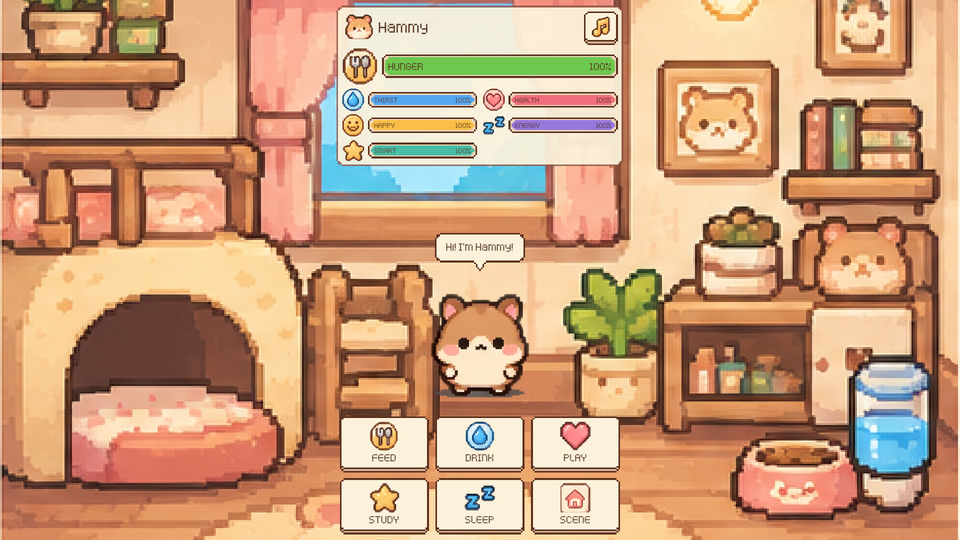
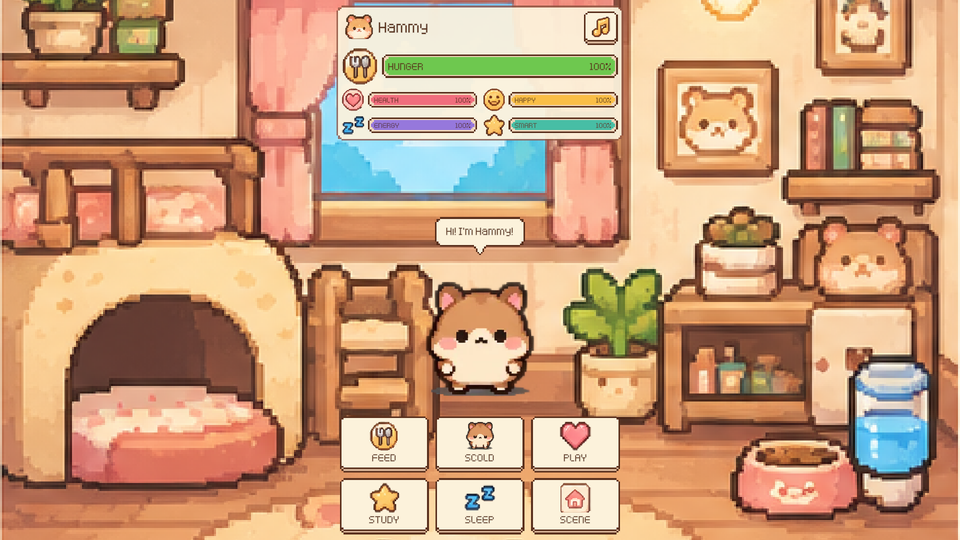
Update README and screenshots for Scold button

Changed region(s): [[0.3438, 0.1481, 0.6562, 0.3259], [0.4375, 0.3852, 0.5625, 0.7407], [0.4688, 0.7704, 0.5312, 0.8593]]

diff --git a/README.md b/README.md
@@ -22,7 +22,7 @@ and it gets **sick**.
 | 1 | Project setup (portrait, Canvas Scaler, safe area, art import) | ✅ Done |
 | 2 | UI layout (stat bars, pet area, action buttons, Scene button, mute) | ✅ Done |
 | 3 | Stats, hunger bar, hangry state, sick / game over + Restart | ✅ Done |
-| 4 | Pet state machine and emotes (idle, eating, drinking, studying, sleeping, playing, happy, sad, crying, hangry, sick) | ✅ Done |
+| 4 | Pet state machine and emotes (idle, eating, studying, sleeping, playing, happy, sad, crying, hangry, sick) | ✅ Done |
 | 5 | Audio (AudioManager, CC0 sounds, mute) | ⏳ Planned |
 | 6 | Save/load with offline decay | ⏳ Planned |
 | 7 | Polish | ⏳ Planned |
@@ -30,11 +30,11 @@ and it gets **sick**.
 
 ## Features
 
-- **Six stats (0–100):** Hunger, Thirst, Happiness, Energy, Intelligence and Health. They decay every
+- **Five stats (0–100):** Hunger, Happiness, Energy, Intelligence and Health. They decay every
   second. All numbers are in `Assets/Data/PetStatsConfig.asset` (see *Tuning the stats*).
 - **Hunger bar** at the top that goes green → yellow → red. **Below 25%** the pet is **hangry**: the bar
   flashes red and pulses, and the mood line says so. *(The angry emote and hangry sound come in steps 4–5.)*
-- **Health** drops while Hunger or Thirst is at 0, and slowly recovers while both are above 50%.
+- **Health** drops while Hunger is at 0, and slowly recovers while Hunger is above 50%.
 - **Sick / game over:** if Health reaches 0, **or Hunger stays at 0 for 30 seconds**, the pet gets
   sick. A game-over card with the crying hamster and a **Restart** button appears.
 - **Sleep** restores Energy over time (4 per second) and slows the other stats. The pet wakes up by
@@ -50,10 +50,9 @@ and it gets **sick**.
   |-------|------|-------------|
   | Idle | Nothing special going on | `idle` frames, slow loop |
   | Eating | FEED (2 s) | `eating` frames + little hops |
-  | Drinking | DRINK (2 s) | `eating` frames (the pack has no drinking frames) + little hops |
   | Studying | STUDY (2 s) | `studying` frames |
   | Playing → Happy | PLAY (2 s, then 1.2 s happy) | `playing` then `happy` frames + bouncing |
-  | Sad | Happiness below 25%, or the pet refuses (too tired) | `sad` frames |
+  | Sad | SCOLD (2 s), Happiness below 25%, or the pet refuses (too tired) | `sad` frames |
   | Crying | Health below 25% | `crying` frames |
   | Hangry | Hunger below 25% | `sad` frames + red pulse + angry shake |
   | Sleeping | SLEEP | `sleeping` frames; the screen dims and switches to the moonlit bedroom |
@@ -68,10 +67,10 @@ and it gets **sick**.
 | Button | Effect (default numbers) |
 |--------|--------|
 | Feed | Hunger +25, Happiness +3 |
-| Drink | Thirst +25 |
+| Scold | Happiness −10, sad reaction ("Sniff... I'm sorry!") |
 | Study | Intelligence +12, Energy −10, Happiness −5 (refused if Energy < 10: "too tired") |
 | Sleep | Falls asleep and Energy refills over time; tap again to wake up |
-| Play | Happiness +20, Energy −8, Hunger −3, Thirst −3 (refused if Energy < 8) |
+| Play | Happiness +20, Energy −8, Hunger −3 (refused if Energy < 8) |
 | Scene | Changes the background (cozy home → sunny garden → beach → forest stream → sunset rooftop → moonlit bedroom) |
 | ♪ (top right) | Mute / unmute (works from step 5) |
 | Restart | On the game-over card: new pet with starting stats |
@@ -116,6 +115,7 @@ Assets/
   Editor/
     ProjectSetup.cs            menu "Tamagotchi > Setup Project": player settings + generates Main.unity
     MainSceneBuilder.cs        builds the whole UI layout and wires every reference
+    PhoneGameViewSize.cs       adds/selects the "Phone 1080x1920" Game view size
     ScreenshotCapture.cs       menu "Tamagotchi > Capture Screenshot" -> Docs/screenshot.png
     ArtImportPostprocessor.cs  imports Assets/Art as Point-filtered, uncompressed sprites (+ 9-slice borders)
   Scenes/Main.unity   the game scene (generated by ProjectSetup; don't edit by hand, see below)
@@ -127,9 +127,9 @@ Assets/
     UI/SafeArea.cs    keeps UI clear of notches and cut-outs
     UI/PortraitFrame.cs keeps the UI a centered 9:16 column in wide windows
     World/BackgroundSwitcher.cs  full-screen background: Scene button cycling + temporary override (used by Sleep)
-    Pet/PetStats.cs        the six stats: decay, actions, sleep, health, hangry, sick
+    Pet/PetStats.cs        the five stats: decay, actions, sleep, health, hangry, sick
     Pet/PetStatsConfig.cs  ScriptableObject with all tuning numbers
-    Pet/PetController.cs   state machine: Idle, Eating, Drinking, Studying, Sleeping, Playing, Happy, Sad, Crying, Hangry, Sick
+    Pet/PetController.cs   state machine: Idle, Eating, Studying, Sleeping, Playing, Happy, Sad, Crying, Hangry, Sick
     Pet/SpriteAnimator.cs  flip-book animation of sprite frames on a UI Image
     GameManager.cs         wires buttons -> stats + pet reactions, and stats -> UI (bars, hangry, game over)
   Data/PetStatsConfig.asset  the tuning values used by the game
@@ -198,12 +198,14 @@ will be listed here with its source and license._
 4. Make sure the project row shows editor version **6000.3.24f1**. If not, click the version and pick it.
 5. Click the project to open it. The first open takes a few minutes while Unity builds `Library/`.
 6. In the **Project** window (bottom), go to `Assets > Scenes` and double-click **Main**.
-7. Click the **Game** tab. In the resolution dropdown at the top left ("Free Aspect"), click **+**, enter
-   Label `Phone`, Type *Fixed Resolution*, **1080 × 1920**, click **OK** and select it. Lower the
-   **Scale** slider if it's too big.
+7. Click the **Game** tab. The project adds **Phone (1080x1920)** to the resolution dropdown and selects
+   it automatically when the Editor opens (or use the menu **Tamagotchi → Game View: Phone 1080x1920**).
+   If it's not there, add it by hand: resolution dropdown → **+** → Label `Phone`, Type *Fixed
+   Resolution*, **1080 × 1920** → **OK**. Lower the **Scale** slider if it's too big.
 8. Press **▶ Play** (top center).
 9. Try it:
-   - **FEED / DRINK / PLAY / STUDY:** the bars change and the speech bubble above the hamster reacts.
+   - **FEED / PLAY / STUDY:** the bars change and the speech bubble above the hamster reacts.
+   - **SCOLD:** the hamster looks sad and says sorry; Happiness goes down.
    - **SLEEP:** the hamster sleeps, the screen dims and turns to the moonlit bedroom while Energy refills;
      tap again to wake up.
    - **PLAY:** the hamster plays and bounces, then looks happy.
@@ -231,6 +233,11 @@ will be listed here with its source and license._
   *Free Aspect* (a wide shape). Pick **Phone (1080×1920)** in the Game view's resolution dropdown (see
   *Test-run in the Unity Editor*). Since the portrait-frame fix, wide windows (desktop, browser) also
   keep the UI as a centered phone-shaped column with the room filling the rest of the window.
+- **"Phone" is missing from the Game view's resolution list:** run **Tamagotchi → Game View: Phone 1080x1920**,
+  or add it by hand (resolution dropdown → **+** → 1080 × 1920).
+- **Yellow warning "Could not pick GraphicsDeviceType, the game would fail to launch":** it comes from
+  Unity's **Device Simulator** after picking a phone model there. It doesn't affect the game. Switch the
+  Game view's left dropdown back from *Simulator* to **Game**, or ignore it.
 
 - **"Missing scene" or empty Hierarchy:** open `Assets/Scenes/Main.unity`, or run
   **Tamagotchi → Setup Project** from the menu bar to regenerate it.
